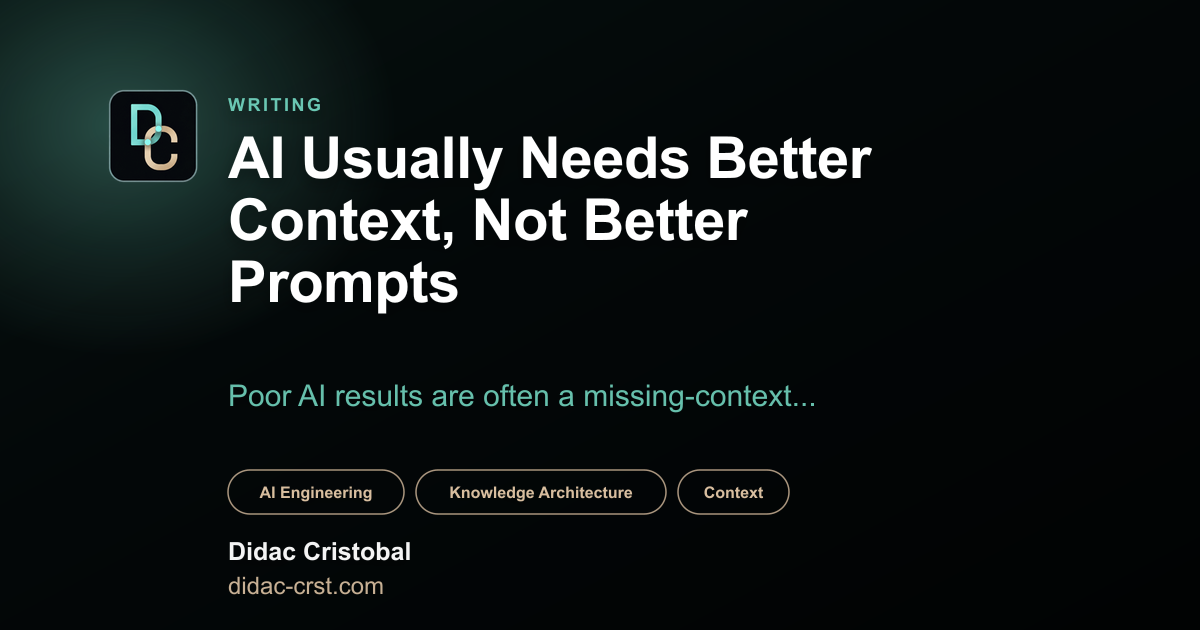
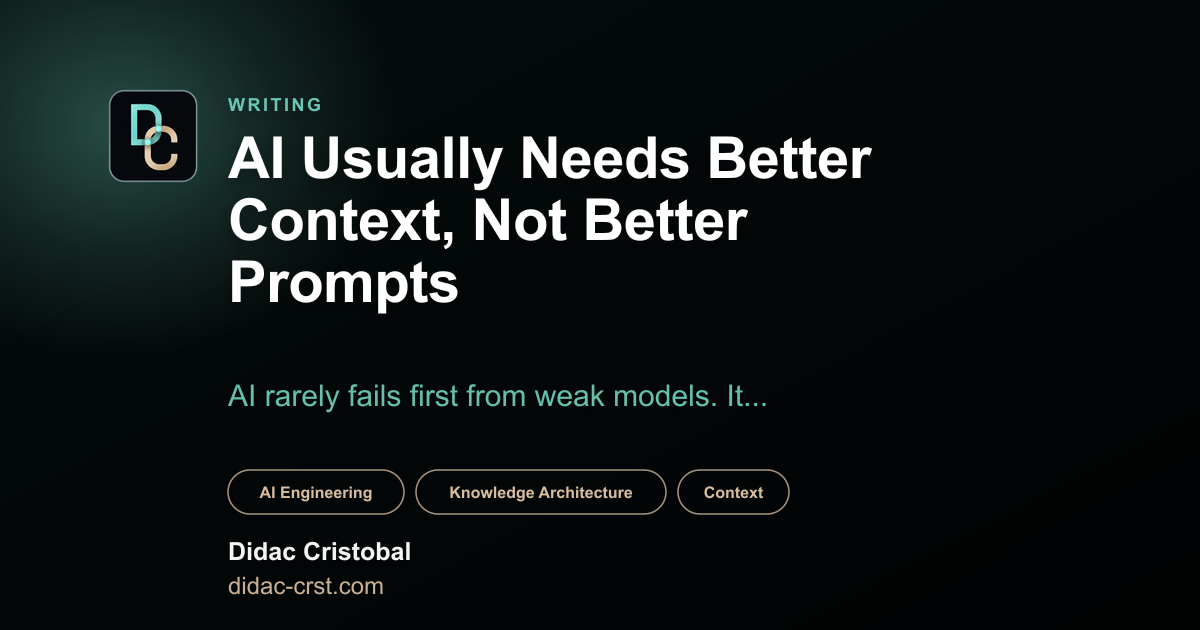
refine: tighten context article closing argument
Reorder hygiene before limits, and sharpen the context-architect close so the essay ends on designing conditions for reliable reasoning.

Changed region(s): [[0.185, 0.6032, 0.6783, 0.6635]]

diff --git a/src/content/writing/ai-needs-better-context.md b/src/content/writing/ai-needs-better-context.md
@@ -2,7 +2,7 @@
 title: "AI Usually Needs Better Context, Not Better Prompts"
 description: "AI rarely fails first from weak models. It fails from weak information architecture around them — and the human job is to engineer that context."
 published: 2026-08-19
-updated: 2026-08-20
+updated: 2026-08-21
 language: en
 tags:
   - AI Engineering
@@ -271,20 +271,6 @@ Plain text survives tool migrations. It diffs cleanly in version control. It ref
 
 Operational habits that help: one primary problem per session; summarize before switching tasks; version assumptions explicitly; treat exploratory chats as disposable.
 
-## Where This Breaks
-
-Context is not a universal fix.
-
-Some tasks need little surrounding knowledge: rephrase this paragraph, explain a standard algorithm, summarize a public document. Adding organizational context would add weight without improving the result.
-
-Some problems are hard because the knowledge **does not exist yet** — not because it was not pasted into the chat. No amount of context compensates for unresolved requirements or contradictory stakeholder intent.
-
-Context can also **mislead**. Stale documentation, wrong assumptions treated as facts, and internal jargon without definitions can steer the model confidently in the wrong direction. More material increases the risk unless someone curates it.
-
-And context has a cost: assembly time, maintenance, cognitive load, and the need to decide what to exclude. For quick, low-stakes work, a minimal instruction may be the rational choice. The error is treating that as the model for every kind of work — especially work that feeds production systems or durable decisions.
-
-The goal is not maximal context. The goal is **appropriate context**: enough reality to reason well, not so much that signal drowns.
-
 ## Context Hygiene and Human Judgment
 
 Better context improves reasoning. It does not replace judgment over **candidate results**.
@@ -299,6 +285,20 @@ There is a subtler failure mode than accepting bad answers: **outsourcing unders
 
 The model can propose. A person still owns acceptance — especially when consequences extend beyond the chat window. That ownership is not a soft “human in the loop” slogan. It is the same responsibility you already accept when you merge code or change a production rule.
 
+## Where This Breaks
+
+Context is not a universal fix.
+
+Some tasks need little surrounding knowledge: rephrase this paragraph, explain a standard algorithm, summarize a public document. Adding organizational context would add weight without improving the result.
+
+Some problems are hard because the knowledge **does not exist yet** — not because it was not pasted into the chat. No amount of context compensates for unresolved requirements or contradictory stakeholder intent.
+
+Context can also **mislead**. Stale documentation, wrong assumptions treated as facts, and internal jargon without definitions can steer the model confidently in the wrong direction. More material increases the risk unless someone curates it.
+
+And context has a cost: assembly time, maintenance, cognitive load, and the need to decide what to exclude. For quick, low-stakes work, a minimal instruction may be the rational choice. The error is treating that as the model for every kind of work — especially work that feeds production systems or durable decisions.
+
+The goal is not maximal context. The goal is **appropriate context**: enough reality to reason well, not so much that signal drowns.
+
 ## The Human Work Is Context Architecture
 
 Fluent generation can make expertise look less necessary. In practice, it makes expert judgment more valuable. When producing plausible text becomes cheap, the scarce skill is deciding:
@@ -310,16 +310,9 @@ Fluent generation can make expertise look less necessary. In practice, it makes 
 - what knowledge deserves to persist;
 - what should be excluded because it does not improve reasoning.
 
-That is **context architecture**: engineering the information environment in which a probabilistic system is allowed to operate. It sits at the intersection of domain knowledge and information architecture. It is not prompt trivia. It is not “checking the AI.” It is designing quality gates, lifecycles, and representations so that what reaches the model is selected, validated, and fit for the task.
+That is **context architecture**: engineering the information environment in which a probabilistic system operates. It sits at the intersection of domain knowledge and information architecture. It is not prompt trivia. It is not simply "checking the AI." It is designing quality gates, lifecycles, and representations so that what reaches the model is selected, validated, and fit for the task.
 
-A context architect:
-
-- frames the problem in the world that actually exists;
-- selects evidence worth trusting;
-- states constraints explicitly;
-- represents relationships the model would otherwise have to infer;
-- decides what knowledge should become reusable;
-- accepts responsibility for the outcome.
+A context architect does not provide the model with more text. They **design the conditions** under which the model can **reason reliably**.
 
 > Better AI starts with better context.  
 > Better context starts with better information architecture.
